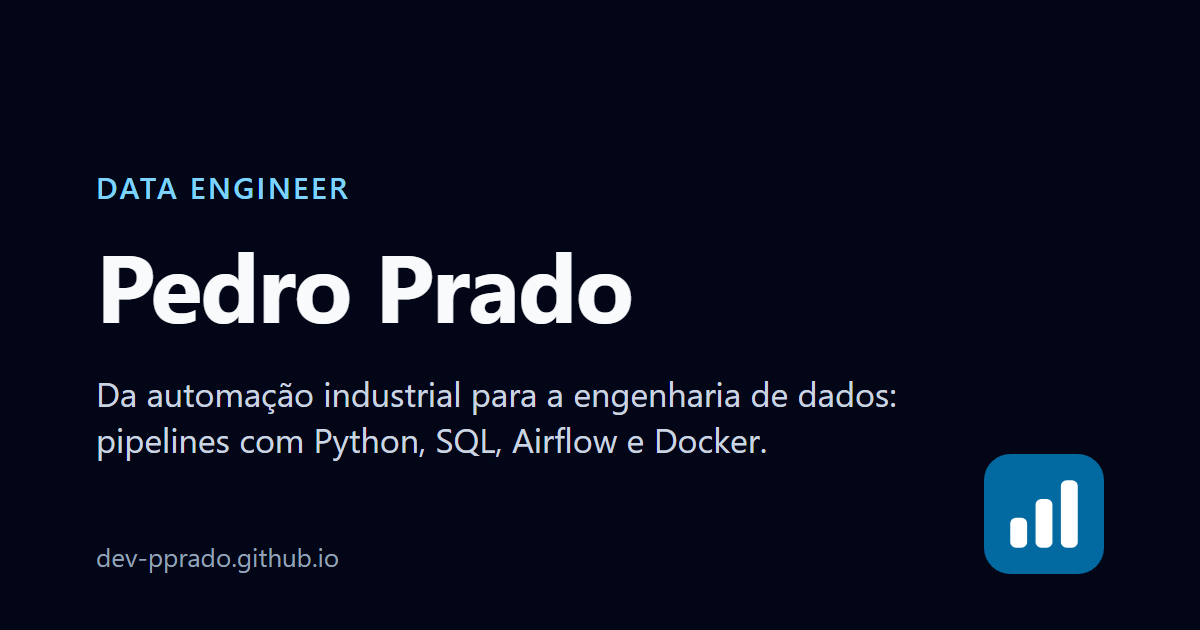
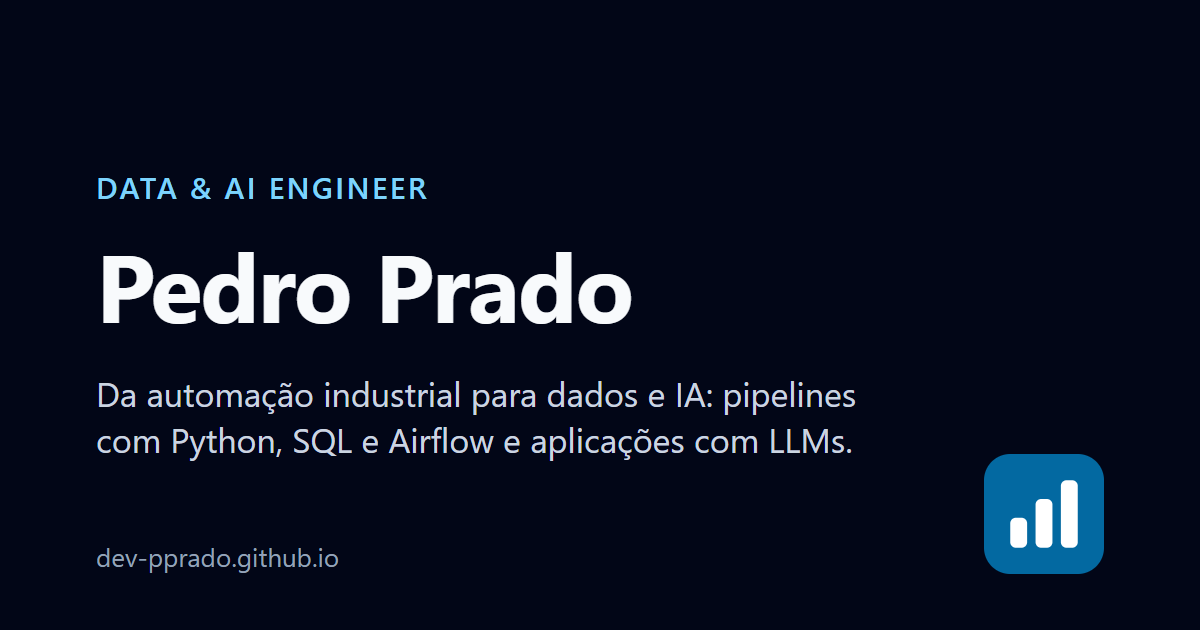
feat: muda posicionamento para Data & AI Engineer

Changed region(s): [[0.0617, 0.6032, 0.74, 0.7238], [0.1542, 0.2714, 0.37, 0.3317]]

diff --git a/src/i18n/pt.ts b/src/i18n/pt.ts
@@ -3,9 +3,9 @@ export const pt = {
   lang: 'pt-BR',
   locale: 'pt-BR',
   ogLocale: 'pt_BR',
-  ogImagemAlt: 'Pedro Prado, Data Engineer: da automação industrial para a engenharia de dados.',
-  siteTitle: 'Pedro Prado | Data Engineer',
-  siteDescription: 'Portfólio de Pedro Prado, Data Engineer: projetos de pipelines de dados, stack e trilha de estudos.',
+  ogImagemAlt: 'Pedro Prado, Data & AI Engineer: da automação industrial para dados e IA.',
+  siteTitle: 'Pedro Prado | Data & AI Engineer',
+  siteDescription: 'Portfólio de Pedro Prado, Data & AI Engineer: projetos de pipelines de dados e aplicações com IA, stack e trilha de estudos.',
   skipToContent: 'Pular para o conteúdo',
   nav: {
     projetos: 'Projetos',
@@ -64,6 +64,7 @@ export const pt = {
     foco: 'foco',
     grupos: {
       linguagens: 'Linguagens',
+      ia: 'Engenharia de IA',
       processamento: 'Processamento e transformação',
       bancos: 'Bancos de dados',
       orquestração: 'Orquestração',

diff --git a/assets-src/og.html b/assets-src/og.html
@@ -13,9 +13,9 @@
 </style>
 </head>
 <body>
-  <div class="cargo">Data Engineer</div>
+  <div class="cargo">Data &amp; AI Engineer</div>
   <h1>Pedro Prado</h1>
-  <p>Da automação industrial para a engenharia de dados: pipelines com Python, SQL, Airflow e Docker.</p>
+  <p>Da automação industrial para dados e IA: pipelines com Python, SQL e Airflow e aplicações com LLMs.</p>
   <div class="url">dev-pprado.github.io</div>
   <svg width="120" height="120" viewBox="0 0 32 32" aria-hidden="true">
     <rect width="32" height="32" rx="7" fill="#0369a1"/>

diff --git a/src/content/perfil.md b/src/content/perfil.md
@@ -1,7 +1,7 @@
 ---
 nome: Pedro Prado
-cargo: Data Engineer
-chamada: Engenheiro de Controle e Automação com experiência em sistemas industriais (PLC, MES e SQL Server), em transição estruturada para Engenharia de Dados. Construo pipelines com Python, SQL, Airflow e Docker.
+cargo: Data & AI Engineer
+chamada: Engenheiro de Controle e Automação com experiência em sistemas industriais (PLC, MES e SQL Server), em transição estruturada para Engenharia de Dados e IA. Construo pipelines com Python, SQL, Airflow e Docker e aplicações com LLMs, como RAG com LangGraph e Qdrant.
 background: Automação industrial
 principais: [python, sql, airflow, docker]
 github: https://github.com/Dev-PPrado
@@ -10,6 +10,6 @@ linkedin: https://www.linkedin.com/in/pedro-hsprado-dataengineer
 
 Sou formado em Engenharia de Controle e Automação e trabalho desde 2023 como Analista de Suporte e Sistemas na Engineering Brasil, em ambiente de manufatura automotiva. No dia a dia lido com integração entre PLCs, MES, bancos de dados e outros sistemas produtivos: análise de logs, diagnóstico de falhas em PLC Rockwell e consultas em SQL Server para encontrar inconsistências e apoiar decisões.
 
-Esse contato com dados de produção me levou para a Engenharia de Dados. Desde então venho estudando Python, SQL, PostgreSQL, Docker, dbt e Airflow e aplicando esse conhecimento em projetos práticos de pipelines, ETL e APIs, que estão publicados no meu GitHub.
+Esse contato com dados de produção me levou para a Engenharia de Dados, e dela para a Engenharia de IA. Venho estudando Python, SQL, PostgreSQL, Docker, dbt e Airflow e hoje sigo a trilha de Engenharia de IA da Jornada de Dados, aprendendo a construir aplicações com LLMs: RAG, agentes e bancos vetoriais. Aplico esse conhecimento em projetos práticos de pipelines, ETL, APIs e RAG, que estão publicados no meu GitHub.
 
-Meu objetivo é atuar como Engenheiro de Dados, unindo a experiência em ambientes industriais com engenharia e arquitetura de dados.
+Meu objetivo é atuar entre dados e IA: construir os pipelines que entregam dados confiáveis e as aplicações de IA que dependem deles, unindo a experiência em ambientes industriais com engenharia de dados e de IA.

diff --git a/CLAUDE.md b/CLAUDE.md
@@ -4,7 +4,7 @@ This file provides guidance to Claude Code (claude.ai/code) when working with co
 
 ## Project
 
-Personal portfolio for Pedro Prado, positioned as **Data Engineer**. It is deployed to GitHub Pages at `dev-pprado.github.io` from the repo `Dev-PPrado.github.io`. The source of truth for scope, section order, schemas, and the phased plan is `.llm/prd.md`. Read it before starting any phase. Site content is in Brazilian Portuguese only. Fixed UI strings live in `src/i18n/pt.ts`, so English can be added later without touching components.
+Personal portfolio for Pedro Prado, positioned as **Data & AI Engineer** (hybrid: data engineering plus the AI Engineering track he is following now; AI work is study and personal projects, never professional experience). It is deployed to GitHub Pages at `dev-pprado.github.io` from the repo `Dev-PPrado.github.io`. The source of truth for scope, section order, schemas, and the phased plan is `.llm/prd.md`. Read it before starting any phase. Site content is in Brazilian Portuguese only. Fixed UI strings live in `src/i18n/pt.ts`, so English can be added later without touching components.
 
 Phases 0 to 5 are done (Fase 4 verified on 2026-10-09: a manual `collect.yml` run committed new stats and redeployed the site). Fase 5 (SEO, Lighthouse) is done: Lighthouse scored 100 in all four categories locally (home, `/projetos/`, a project page, light and dark) and on the live site (home and a project page, 2026-10-09). The PRD has no phase after it. Project cards link to `/projetos/<id>/` and to the repo. `roadmap.json` is filled from the certificates. The "O que aprendi" sections hold a provisional, generic text (marked with a `[//]: # (...)` Markdown comment, which is not rendered) until Pedro writes his own.
 

diff --git a/README.md b/README.md
@@ -1,4 +1,4 @@
-# Portfólio de Pedro Prado — Data Engineer
+# Portfólio de Pedro Prado — Data & AI Engineer
 
 [![Deploy](https://github.com/Dev-PPrado/Dev-PPrado.github.io/actions/workflows/deploy.yml/badge.svg)](https://github.com/Dev-PPrado/Dev-PPrado.github.io/actions/workflows/deploy.yml)
 [![Collect GitHub stats](https://github.com/Dev-PPrado/Dev-PPrado.github.io/actions/workflows/collect.yml/badge.svg)](https://github.com/Dev-PPrado/Dev-PPrado.github.io/actions/workflows/collect.yml)
